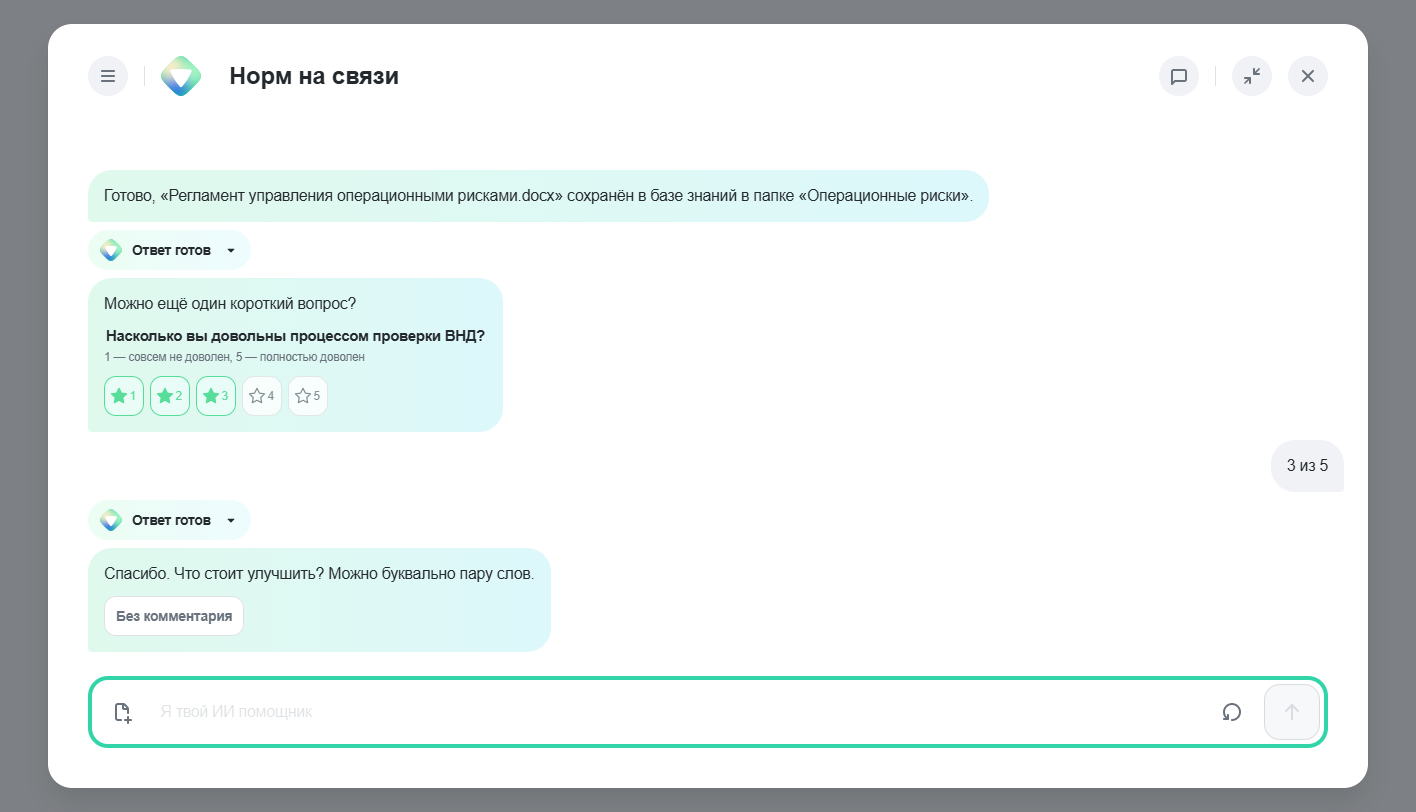
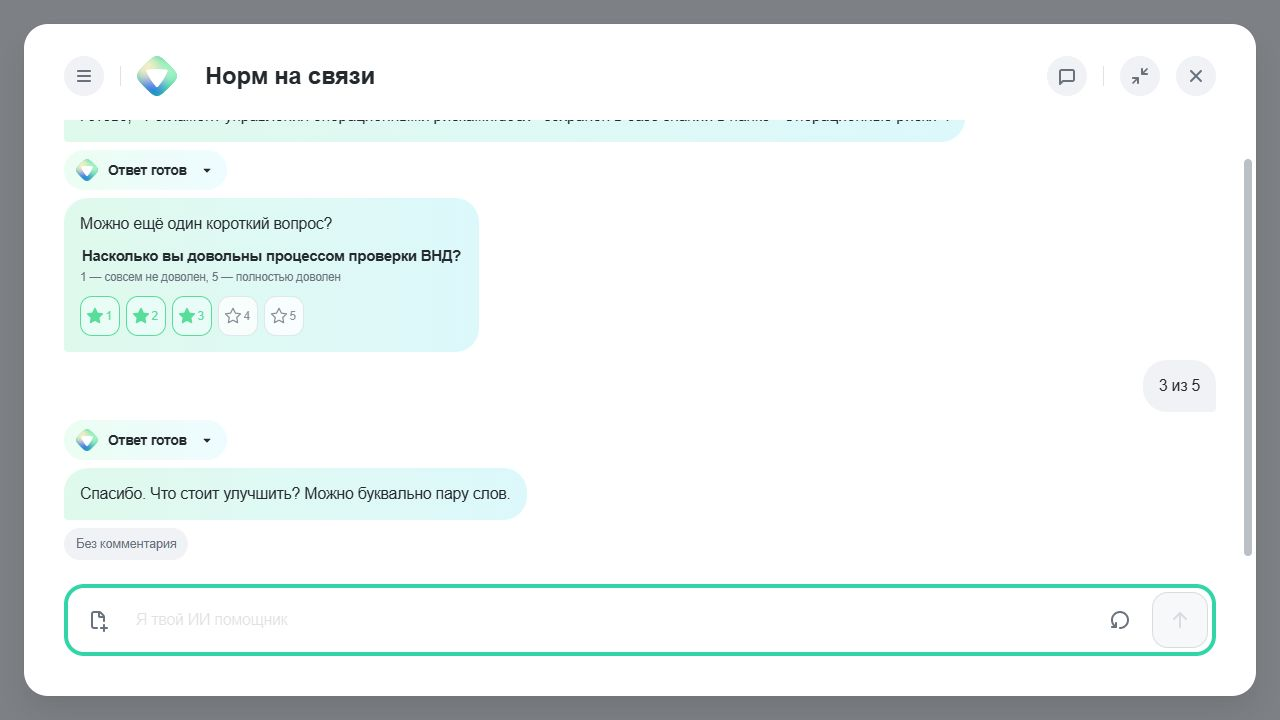
Align CSI skip action with secondary button

Changed region(s): [[0.0, 0.0306, 1.0, 0.9778], [0.8125, 0.0917, 0.8438, 0.1222]]

diff --git a/pilot/main.tsx b/pilot/main.tsx
@@ -846,7 +846,7 @@ function App() {
     return addon === 'csi-rating' ? {
       inMessage: card,
       afterMessage: draft.stage === 'rating' ? <FeedbackCancelAction onCancel={declineCsi} /> : null,
-    } : card;
+    } : { afterMessage: draft.stage === 'comment' ? card : null };
   };
   return <reatomContext.Provider value={ctx}><ThreadUiContext.Provider value={threadUi}><AssistantSkillsContext.Provider value={{skills:demoFlags.assistantSkills ? assistantSkills : [], selectedSkill, onSelect:setSelectedSkillId}}><MessageAddonContext.Provider value={renderMessageAddon}><AgentRunsContext.Provider value={runs}>
     <style>{initialState.embedded ? `.${modalClasses.wrapper}{top:0;height:100dvh}` : `.${modalClasses.wrapper}{top:64px;height:calc(100dvh - 64px)} @media(max-width:599px){.${modalClasses.wrapper}{top:112px;height:calc(100dvh - 112px);padding:0;width:100%}.${modalClasses.content},.${modalClasses.contentChatRight}{margin:8px;width:calc(100% - 16px);max-width:calc(100% - 16px);height:calc(100% - 16px)}.${chatClasses.chat}{min-width:0;width:100%;padding:20px 16px 16px}.${chatClasses.content}{margin-right:-16px;padding-right:16px}.${chatClasses.messages}{margin-right:-16px;padding-right:8px}.${chatClasses.titleLogo}{margin-right:0;width:32px;height:32px}.${chatClasses.titleText}{font-size:20px}.${chatClasses.title}{min-width:150px}.${chatClasses.header}>:last-child{gap:6px}.${chatClasses.header}>:last-child button:not(:first-child):not(:last-child){display:none}}`}</style>

diff --git a/pilot/FeedbackCard.view.model.test.ts b/pilot/FeedbackCard.view.model.test.ts
@@ -1,0 +1,17 @@
+import { renderToStaticMarkup } from 'react-dom/server';
+import { describe, expect, it, vi } from 'vitest';
+import { createCsiDraft, selectCsiRating } from './Feedback.model';
+import { FeedbackCancelAction, FeedbackCard } from './FeedbackCard';
+
+describe('CSI secondary actions', () => {
+  it('uses the same lightweight action for skipping a comment and declining CSI', () => {
+    const draft = selectCsiRating(createCsiDraft('proactive', '2026-11-09T10:00:00.000Z'), 3, 'rating', '2026-11-09T10:01:00.000Z');
+    const skip = renderToStaticMarkup(FeedbackCard({ addon:'csi-comment-actions', draft, onRate:vi.fn(), onSkipComment:vi.fn() }));
+    const decline = renderToStaticMarkup(FeedbackCancelAction({ onCancel:vi.fn() }));
+
+    expect(skip).toContain('class="message-secondary-action"');
+    expect(decline).toContain('class="message-secondary-action"');
+    expect(skip).toContain('Без комментария');
+    expect(decline).toContain('Не сейчас');
+  });
+});

diff --git a/pilot/FeedbackCard.tsx b/pilot/FeedbackCard.tsx
@@ -1,5 +1,4 @@
 import React from 'react';
-import { Button } from '@sber-orm/ui-kit';
 import type { CsiDraft } from './Feedback.model';
 import { MessageSecondaryAction } from './MessageSecondaryAction';
 import './FeedbackCard.css';
@@ -48,9 +47,7 @@ function RatingCard({ draft, onRate }: Pick<FeedbackCardProps, 'draft' | 'onRate
 
 export function FeedbackCard(props: FeedbackCardProps) {
   if (props.addon === 'csi-rating') return <RatingCard draft={props.draft} onRate={props.onRate} />;
-  return <div className="feedback-inline-action">
-    <Button size="S" variant="secondary" disabled={props.draft.stage !== 'comment'} onClick={props.onSkipComment}>Без комментария</Button>
-  </div>;
+  return <MessageSecondaryAction onClick={props.onSkipComment}>Без комментария</MessageSecondaryAction>;
 }
 
 export function FeedbackCancelAction({ onCancel }: { onCancel: () => void }) {

diff --git a/pilot/FeedbackCard.css b/pilot/FeedbackCard.css
@@ -14,8 +14,6 @@
 .feedback-stars label.disabled { cursor:default; opacity:.78; }
 .feedback-stars svg { width:20px; height:20px; stroke:currentColor; stroke-width:1.5; stroke-linejoin:round; }
 .feedback-star-control>span { font-size:12px; }
-.feedback-inline-action { display:flex; justify-content:flex-start; }
-.feedback-inline-action button { min-height:40px; }
 @media(max-width:680px){.feedback-stars{gap:4px}.feedback-stars label{width:38px}.feedback-star-control{min-height:38px;grid-template-columns:18px 10px}.feedback-stars svg{width:18px;height:18px}}
 @media(prefers-reduced-motion:reduce){.feedback-card *{scroll-behavior:auto!important;transition:none!important}}
 @media(forced-colors:active){.feedback-stars label.selected .feedback-star-control{border:2px solid CanvasText}}
